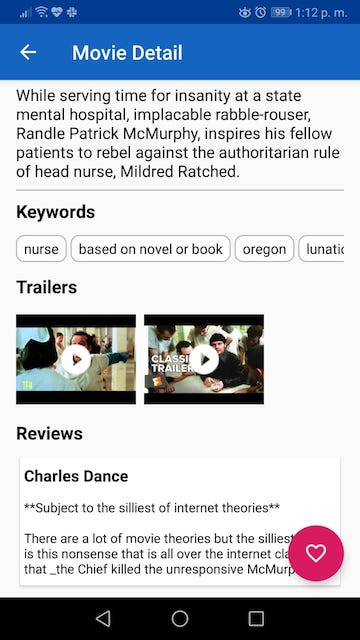
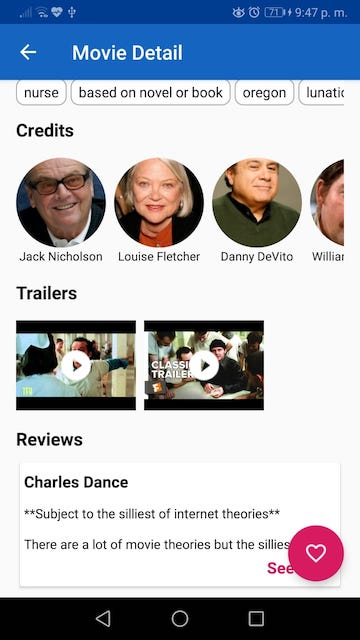
Updating README.
Adding credits' section.

diff --git a/README.md b/README.md
@@ -4,7 +4,8 @@ This is a project for the Architect Coders' Training. With this application user
 
 ### Screenshots
 
-![Kiku](screenshots/movies_capture_1.jpeg)![Kiku](screenshots/movies_capture_2.jpeg)<br/>![Kiku](screenshots/movies_capture_3.jpeg)![Kiku](screenshots/movies_capture_4.jpeg)
+![Kiku](screenshots/movies_capture_1.jpeg)![Kiku](screenshots/movies_capture_2.jpeg)![Kiku](screenshots/movies_capture_3.jpeg)<br/>
+![Kiku](screenshots/movies_capture_4.jpeg)![Kiku](screenshots/movies_capture_5.jpeg)
 
 ### User Experience
 
